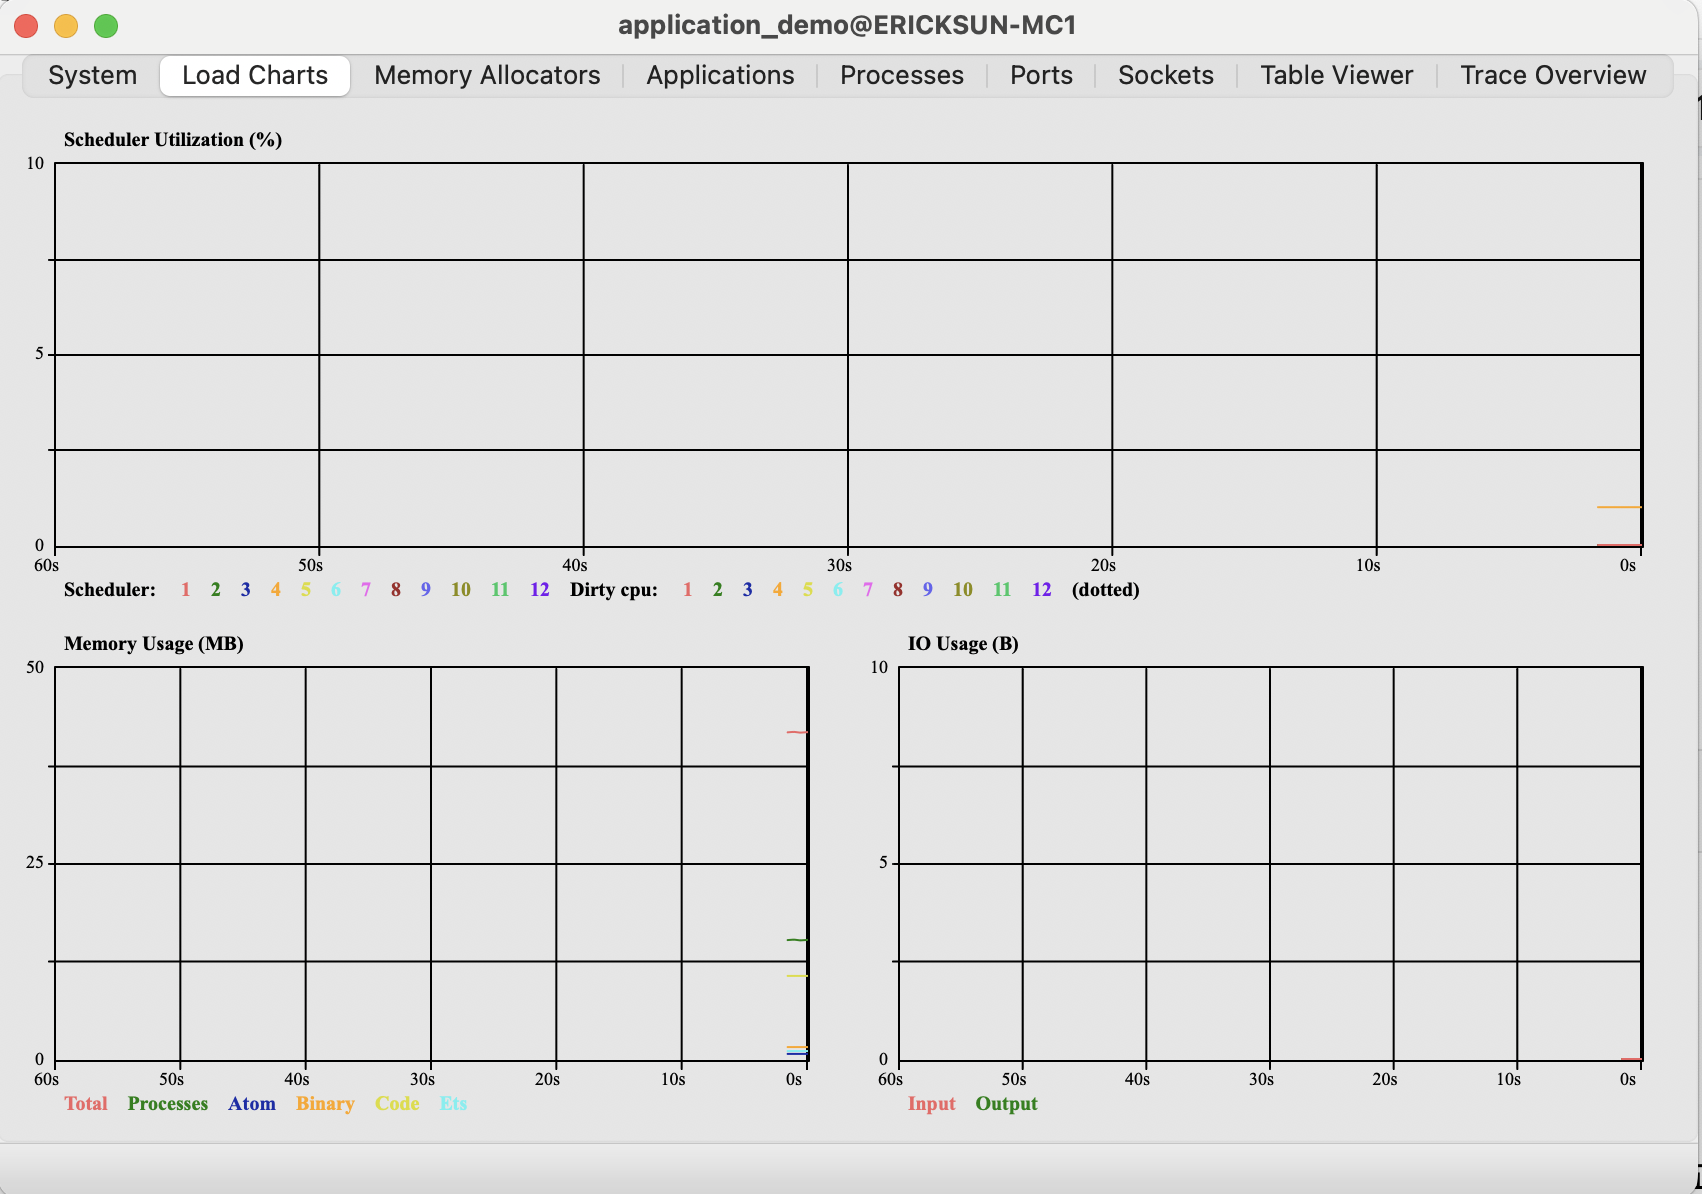
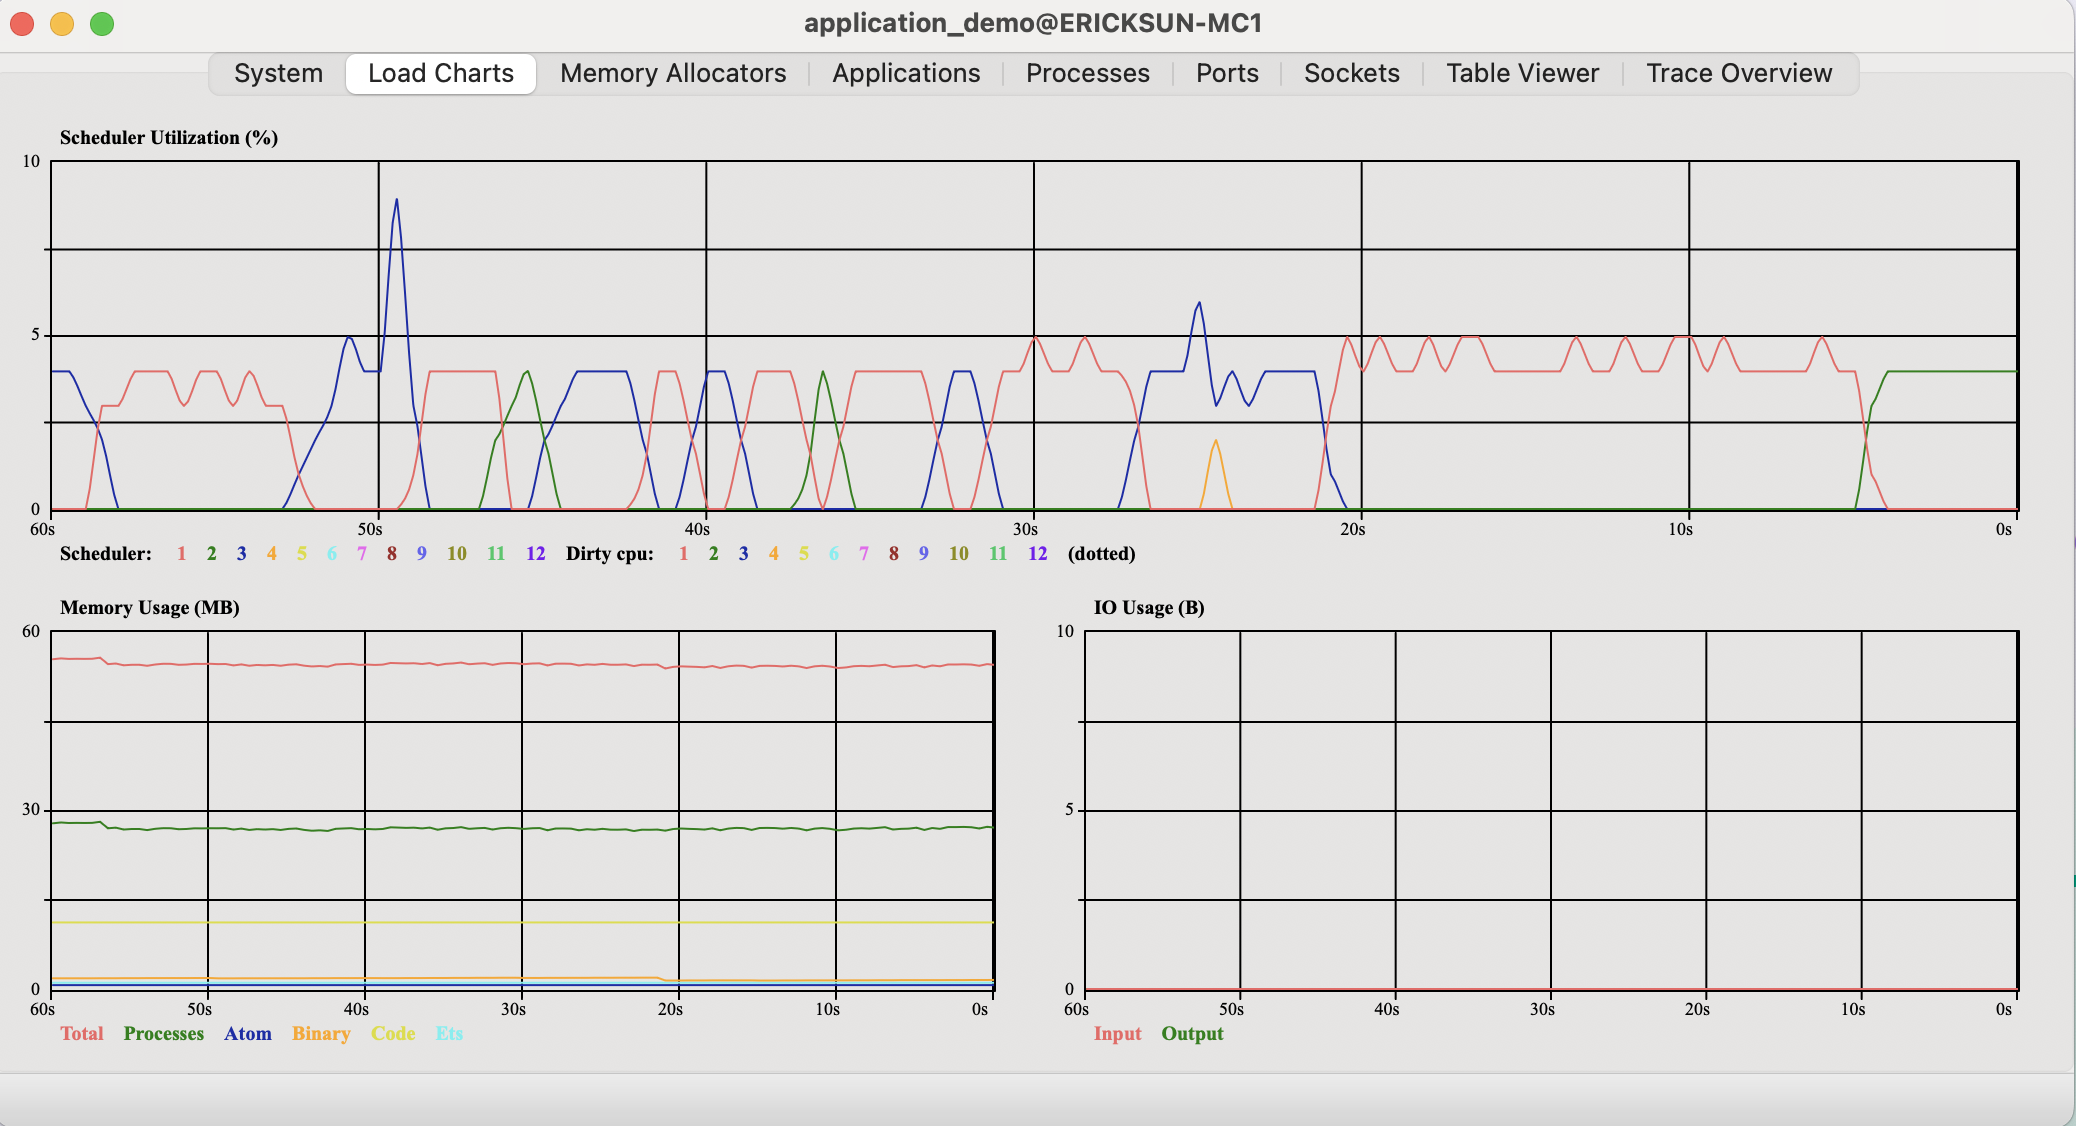
commit

diff --git a/observer/observer_ui_beamer.tex b/observer/observer_ui_beamer.tex
@@ -260,40 +260,7 @@ observer:start().
 
 \begin{frame}{Application 层级：从产品视角到 BEAM process}
   \centering
-  \begin{tikzpicture}[
-    scale=0.82, transform shape,
-    node distance=0.75cm and 1.05cm,
-    app/.style={rounded corners=6pt, draw=primary!65, fill=primary!12, minimum width=3.3cm, minimum height=0.75cm, align=center, font=\small\bfseries, blur shadow},
-    sup/.style={rounded corners=6pt, draw=accent!65, fill=accent!12, minimum width=2.8cm, minimum height=0.7cm, align=center, font=\scriptsize\bfseries},
-    worker/.style={rounded corners=5pt, draw=erlblue!65, fill=erlblue!10, minimum width=2.45cm, minimum height=0.62cm, align=center, font=\scriptsize},
-    detail/.style={rounded corners=5pt, draw=warning!65, fill=warning!10, minimum width=2.7cm, minimum height=0.56cm, align=center, font=\tiny},
-    arrow/.style={-{Latex[length=2.5mm]}, thick, color=muted}
-  ]
-    \node[app] (app) {full\_otp\_app\\\footnotesize application};
-
-    \node[sup, below=of app] (root) {full\_otp\_app\_sup\\root supervisor};
-
-    \node[worker, below left=1.0cm and 2.6cm of root] (kv) {kv\_server\\gen\_server};
-    \node[worker, below left=1.0cm and 0.75cm of root] (event) {event\_bus\\gen\_event};
-    \node[worker, below right=1.0cm and 0.75cm of root] (traffic) {traffic\_light\\gen\_statem};
-    \node[sup, below right=1.0cm and 2.6cm of root] (dataSup) {data\_store\_sup\\child supervisor};
-
-    \node[worker, below left=0.85cm and 0.55cm of dataSup] (store) {data\_store\\gen\_server + DETS};
-    \node[worker, below right=0.85cm and 0.55cm of dataSup] (cache) {data\_cache\\gen\_server + ETS};
-
-    \node[detail, below=0.75cm of kv] (kvState) {mailbox + state\\private process data};
-    \node[detail, below=0.75cm of traffic] (fsmState) {current state\\red / green / yellow};
-
-    \draw[arrow] (app) -- (root);
-    \draw[arrow] (root) -- (kv);
-    \draw[arrow] (root) -- (event);
-    \draw[arrow] (root) -- (traffic);
-    \draw[arrow] (root) -- (dataSup);
-    \draw[arrow] (dataSup) -- (store);
-    \draw[arrow] (dataSup) -- (cache);
-    \draw[arrow, dashed] (kv) -- (kvState);
-    \draw[arrow, dashed] (traffic) -- (fsmState);
-  \end{tikzpicture}
+  \input{tikz/application-hierarchy-body.tex}
 
   \vspace{0.2cm}
   \good{Observer 的 Applications 页面，就是把这张图变成真实运行中的可点击对象。}

diff --git a/observer/tikz/application-hierarchy-body.tex b/observer/tikz/application-hierarchy-body.tex
@@ -1,0 +1,37 @@
+% application-hierarchy-body.tex — full_otp_app application hierarchy diagram
+% Shared TikZ source used by observer_ui_beamer.tex and standalone preview.
+
+\begin{tikzpicture}[
+  scale=0.82, transform shape,
+  node distance=0.75cm and 1.05cm,
+  app/.style={rounded corners=6pt, draw=primary!65, fill=primary!12, minimum width=3.3cm, minimum height=0.75cm, align=center, font=\small\bfseries, blur shadow},
+  sup/.style={rounded corners=6pt, draw=accent!65, fill=accent!12, minimum width=2.8cm, minimum height=0.7cm, align=center, font=\scriptsize\bfseries},
+  worker/.style={rounded corners=5pt, draw=erlblue!65, fill=erlblue!10, minimum width=2.45cm, minimum height=0.62cm, align=center, font=\scriptsize},
+  detail/.style={rounded corners=5pt, draw=warning!65, fill=warning!10, minimum width=2.7cm, minimum height=0.56cm, align=center, font=\tiny},
+  arrow/.style={-{Latex[length=2.5mm]}, thick, color=muted}
+]
+  \node[app] (app) {full\_otp\_app\\\footnotesize application};
+
+  \node[sup, below=of app] (root) {full\_otp\_app\_sup\\root supervisor};
+
+  \node[worker, below left=1.0cm and 2.6cm of root] (kv) {kv\_server\\gen\_server};
+  \node[worker, below left=1.0cm and 0.75cm of root] (event) {event\_bus\\gen\_event};
+  \node[worker, below right=1.0cm and 0.75cm of root] (traffic) {traffic\_light\\gen\_statem};
+  \node[sup, below right=1.0cm and 2.6cm of root] (dataSup) {data\_store\_sup\\child supervisor};
+
+  \node[worker, below left=0.85cm and 0.55cm of dataSup] (store) {data\_store\\gen\_server + DETS};
+  \node[worker, below right=0.85cm and 0.55cm of dataSup] (cache) {data\_cache\\gen\_server + ETS};
+
+  \node[detail, below=0.75cm of kv] (kvState) {mailbox + state\\private process data};
+  \node[detail, below=0.75cm of traffic] (fsmState) {current state\\red / green / yellow};
+
+  \draw[arrow] (app) -- (root);
+  \draw[arrow] (root) -- (kv);
+  \draw[arrow] (root) -- (event);
+  \draw[arrow] (root) -- (traffic);
+  \draw[arrow] (root) -- (dataSup);
+  \draw[arrow] (dataSup) -- (store);
+  \draw[arrow] (dataSup) -- (cache);
+  \draw[arrow, dashed] (kv) -- (kvState);
+  \draw[arrow, dashed] (traffic) -- (fsmState);
+\end{tikzpicture}

diff --git a/observer/tikz/application-hierarchy-standalone.tex b/observer/tikz/application-hierarchy-standalone.tex
@@ -1,0 +1,25 @@
+% application-hierarchy-standalone.tex — Standalone preview for full_otp_app hierarchy
+% TikZ body lives in application-hierarchy-body.tex (single source of truth)
+\documentclass[border=10pt]{standalone}
+
+\usepackage{fontspec}
+\usepackage{xeCJK}
+\setCJKmainfont{PingFang SC}[BoldFont=PingFang SC Semibold]
+\setmainfont{Times New Roman}
+\setmonofont{Menlo}[Scale=0.82]
+
+\usepackage{xcolor}
+\usepackage{tikz}
+\usetikzlibrary{arrows.meta, positioning, calc, shapes.geometric, shadows.blur}
+
+\definecolor{primary}{HTML}{6C5CE7}
+\definecolor{accent}{HTML}{00B894}
+\definecolor{warning}{HTML}{E17055}
+\definecolor{muted}{HTML}{636E72}
+\definecolor{erlblue}{HTML}{0984E3}
+
+\begin{document}
+
+\input{application-hierarchy-body.tex}
+
+\end{document}
